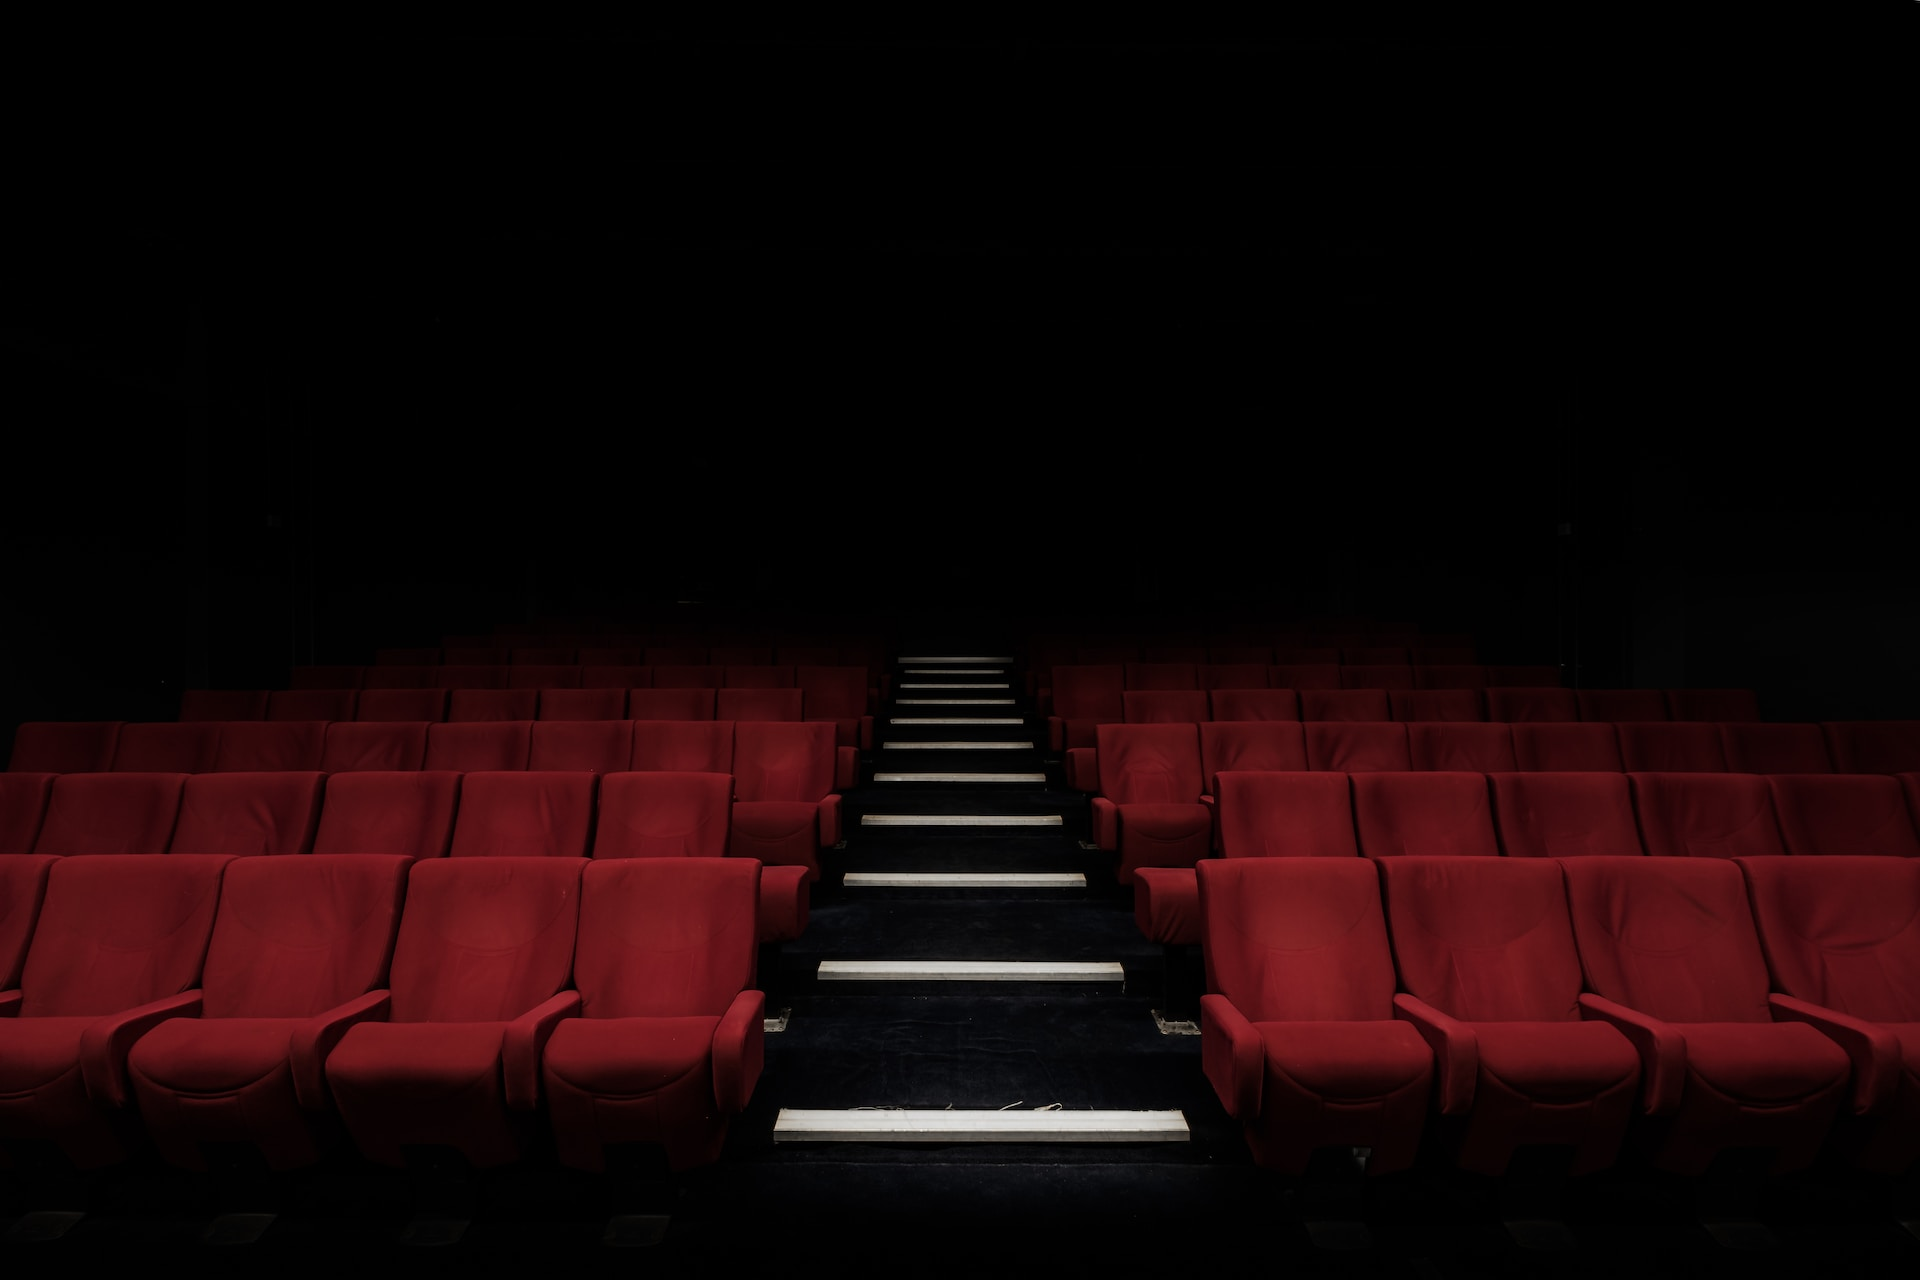
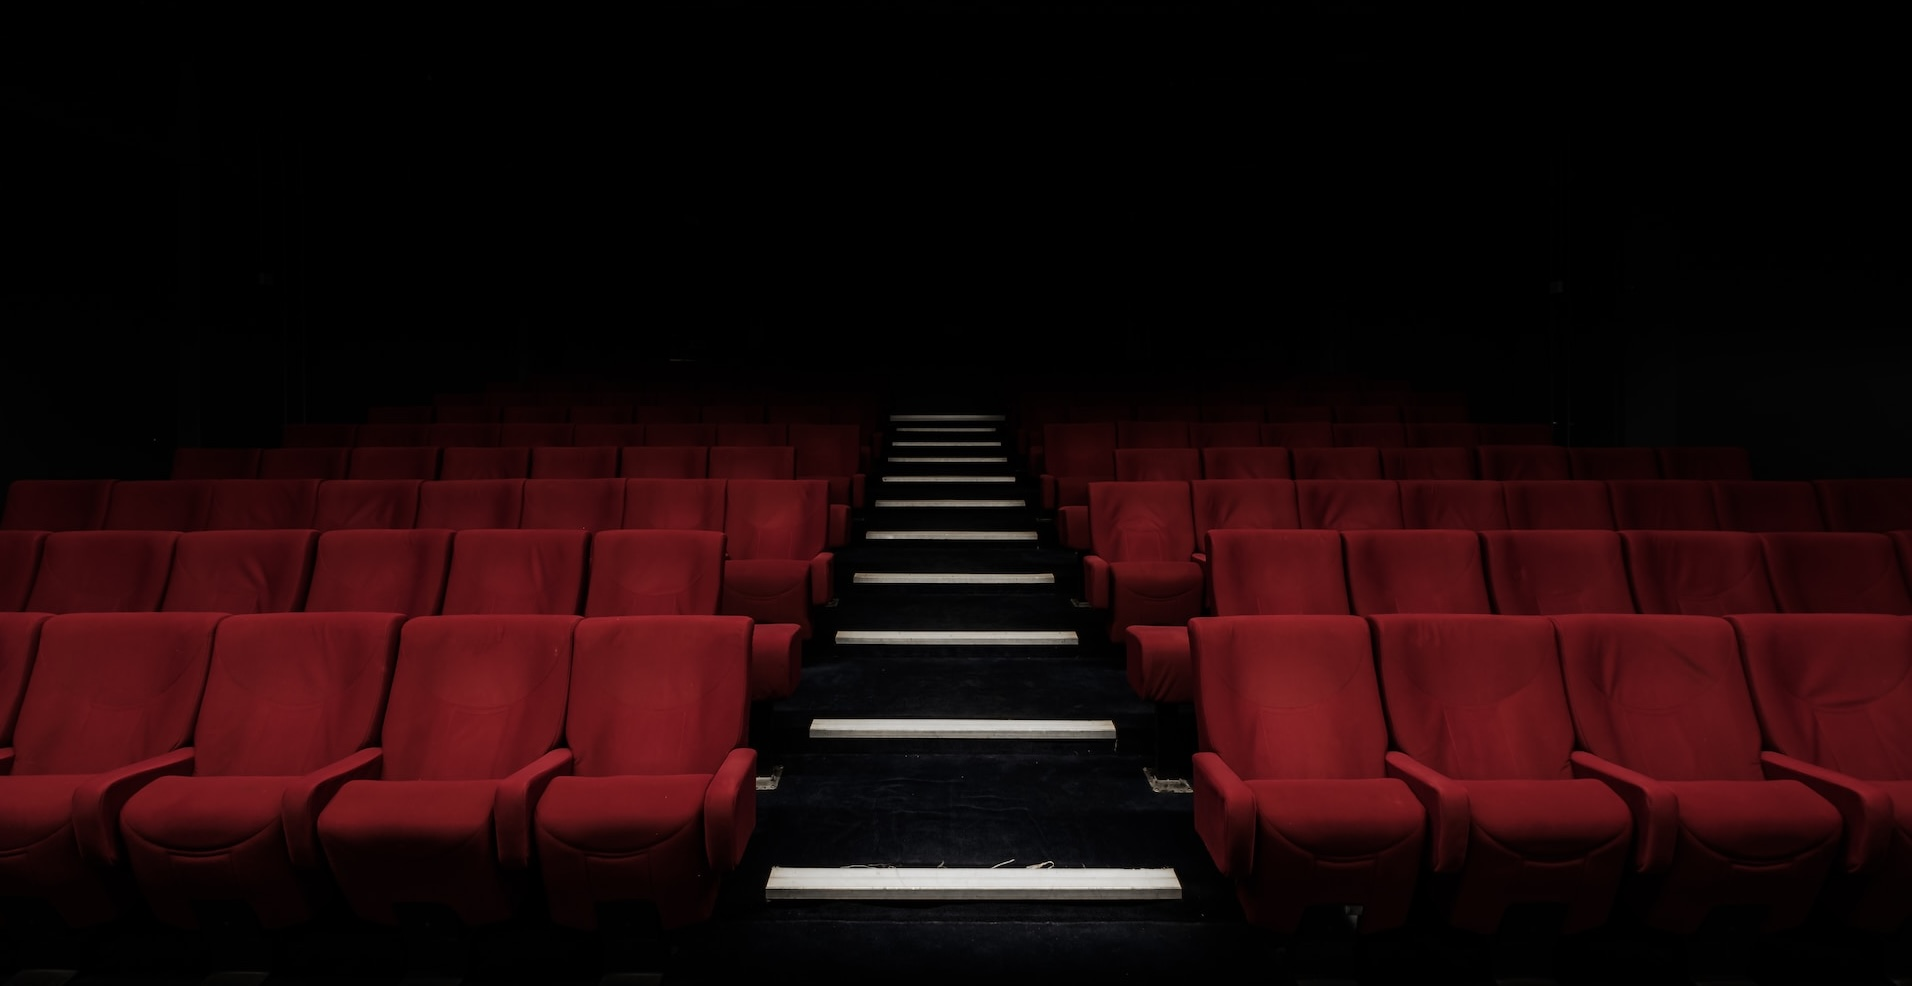
Added some style to image. Can be changed later to match the other sections.

diff --git a/main.css b/main.css
@@ -1,36 +1,45 @@
 @import url("https://fonts.googleapis.com/css2?family=Monofett&family=Sora:wght@100&display=swap");
 .header {
-    background-color: #333333;
-    display: flex;
-    justify-content: center;
+  background-color: #333333;
+  display: flex;
+  justify-content: center;
 }
 .header__container {
-    height: 150px;
-    width: 100%;
-    justify-content: space-between;
-    max-width: 1200px;
-    display: flex;
-    padding: 0 50px;
+  height: 150px;
+  width: 100%;
+  justify-content: space-between;
+  max-width: 1200px;
+  display: flex;
+  padding: 0 50px;
 }
 .header__topNavigation {
-    display: flex;
-    align-items: center;
-    font-size: 30px;
-    gap: 80px;
+  display: flex;
+  align-items: center;
+  font-size: 30px;
+  gap: 80px;
 }
 .header__link {
-    font-size: 24px;
-    font-weight: 700;
-    color: white;
-    text-decoration: none;
+  font-size: 24px;
+  font-weight: 700;
+  color: white;
+  text-decoration: none;
 }
 .header__link:hover {
-    color: #800020;
+  color: #800020;
 }
 
 * {
-    margin: 0;
-    padding: 0;
-    box-sizing: border-box;
-    font-family: "Sora", sans-serif;
+  margin: 0;
+  padding: 0;
+  box-sizing: border-box;
+  font-family: "Sora", sans-serif;
+}
+
+.hero {
+  margin: 0;
+  padding: 2em;
+}
+.hero__Image {
+  width: 100%;
+  border-radius: 5px;
 }

diff --git a/src/main.scss b/src/main.scss
@@ -12,20 +12,30 @@ $colorFive: #ffffff;
 @import "header";
 
 * {
-    margin: 0;
-    padding: 0;
-    box-sizing: border-box;
-    font-family: "Sora", sans-serif;
+  margin: 0;
+  padding: 0;
+  box-sizing: border-box;
+  font-family: "Sora", sans-serif;
 }
 
 @mixin breakpointMin($size) {
-    @media screen and (min-width: $size) {
-        @content;
-    }
+  @media screen and (min-width: $size) {
+    @content;
+  }
 }
 
 @mixin breakpointMax($size) {
-    @media screen and (max-width: $size) {
-        @content;
-    }
+  @media screen and (max-width: $size) {
+    @content;
+  }
+}
+
+.hero {
+  margin: 0;
+  padding: 2em;
+
+  &__Image {
+    width: 100%;
+    border-radius: 5px;
+  }
 }
